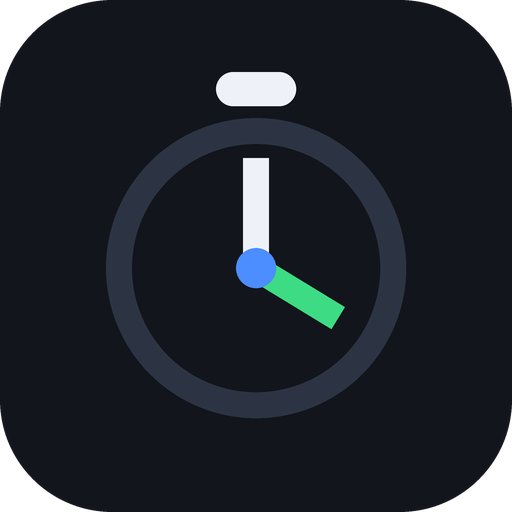
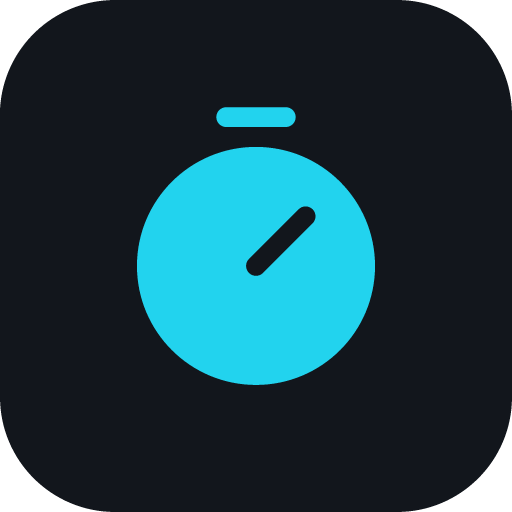
Adopte le systeme d'icones commun de l'ecosysteme
Tuile encre #12161C identique pour toutes les applications, une couleur vive
par application, glyphe plein. Les traces viennent de Phosphor Icons (MIT),
sauf l'Eclat de Centrale et la carte de WikiDeck.

Ajoute les trois compositions distinctes que reclament les systemes : tuile
arrondie pour `any` et le favicon, fond plein bord a bord avec glyphe reduit
pour `maskable`, et apple-touch-icon en 180 px que iOS masque lui-meme.

Corrige au passage l'absence d'apple-touch-icon et de maskable correct, qui
faisait afficher une capture de page au lieu du logo sur iPhone.

Source unique et regeneration : standards/logos du depot ecosysteme.

diff --git a/index.html b/index.html
@@ -8,7 +8,8 @@
   <title>Sport</title>
   <link rel="manifest" href="./manifest.json">
   <link rel="icon" href="./icons/icone.svg" type="image/svg+xml">
-  <link rel="apple-touch-icon" href="./icons/icon-192.png">
+  <link rel="icon" href="./icons/icon-192.png" sizes="192x192" type="image/png">
+  <link rel="apple-touch-icon" href="./icons/apple-touch-icon.png">
   <link rel="stylesheet" href="./css/style.css">
 </head>
 <body>

diff --git a/sw.js b/sw.js
@@ -8,7 +8,7 @@
  * Incrémenter `CACHE` à chaque changement de la liste des fichiers.
  */
 
-const CACHE = 'sport-v10';
+const CACHE = 'sport-v11-logos';
 
 const FICHIERS = [
   './',
